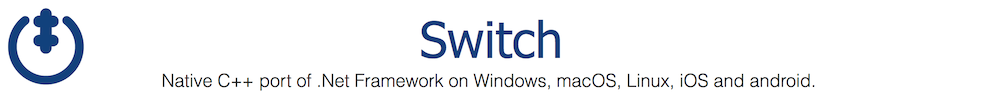
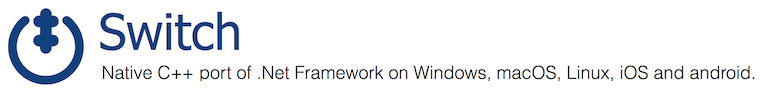
add docs

Changed region(s): [[0.0, 0.087, 0.9922, 0.9565], [0.4209, 0.2174, 0.5712, 0.6522]]

diff --git a/README.md b/README.md
@@ -1,6 +1,4 @@
-[![Switch](docs/Pictures/Menu/Switch.png)](docs/Home.md)[![Switch](docs/Pictures/Menu/Gallery.png)](docs/Gallery.md)[![Switch](docs/Pictures/Menu/Examples.png)](docs/Examples.md)[![Switch](docs/Pictures/Menu/Downloads.png)](docs/Downloads.md)[![Switch](docs/Pictures/Menu/Documentation.png)](docs/Documentation.md)[![Switch](docs/Pictures/Menu/Project.png)](https://sourceforge.net/projects/switchpro)[![Switch](docs/Pictures/Menu/Sources.png)](https://github.com/gammasoft71/switch)[![Switch](docs/Pictures/Menu/Contact.png)](docs/Contact.md)[![Switch](docs/Pictures/Menu/Gammasoft.png)](https://gammasoft71.wixsite.com/gammasoft)
-
-### Native C++ port of .Net Framework on Windows, macOS, Linux, iOS and android. 
+[![Switch](docs/Pictures/SwitchNativeC++port.png)](https://gammasoft71.wixsite.com/switch)
 
 [![build status](https://travis-ci.org/gammasoft71/Switch.svg)](https://travis-ci.org/gammasoft71/Switch) 
 [![Build status](https://ci.appveyor.com/api/projects/status/kjfq2sl5bc99kut6?svg=true)](https://ci.appveyor.com/project/gammasoft71/Switch)
